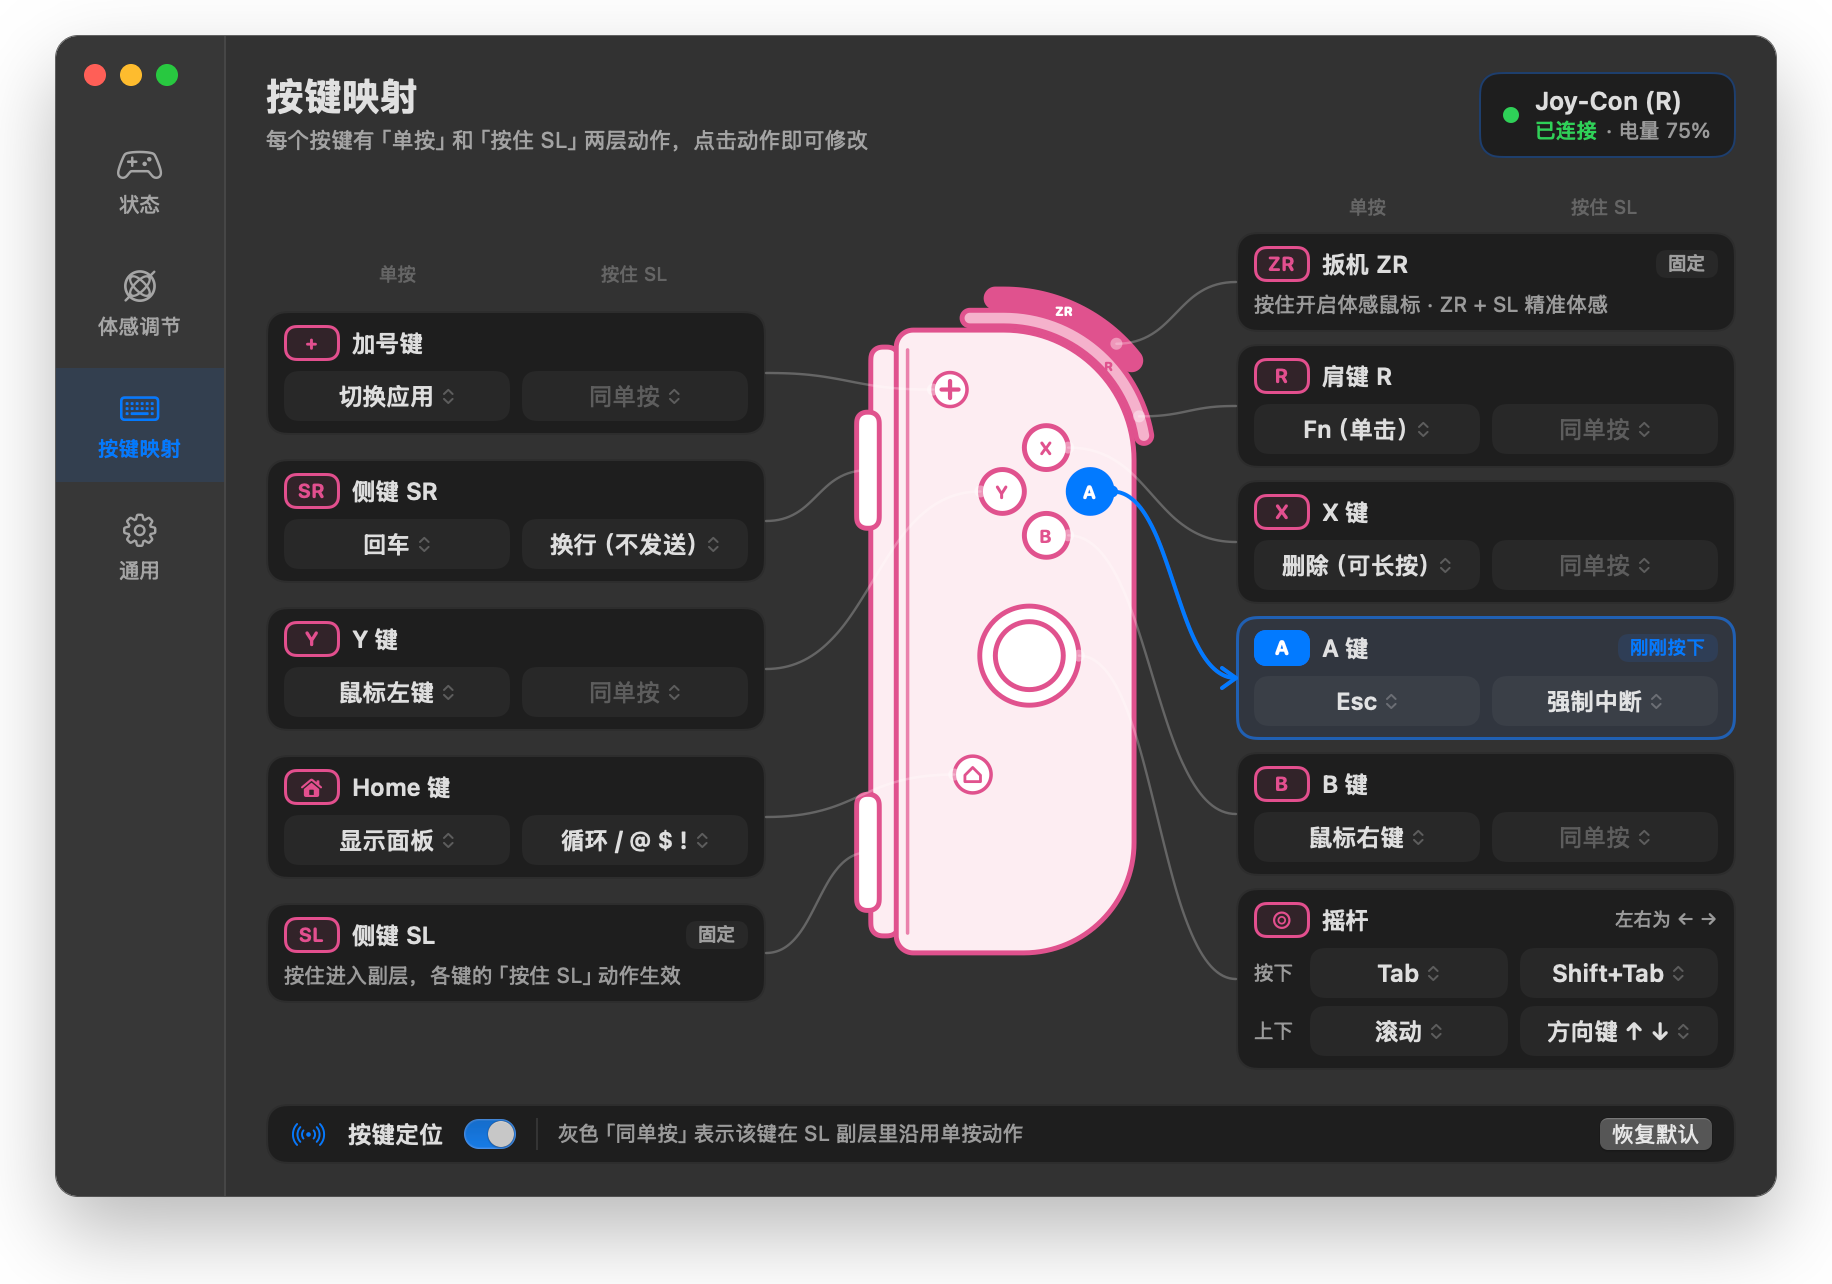
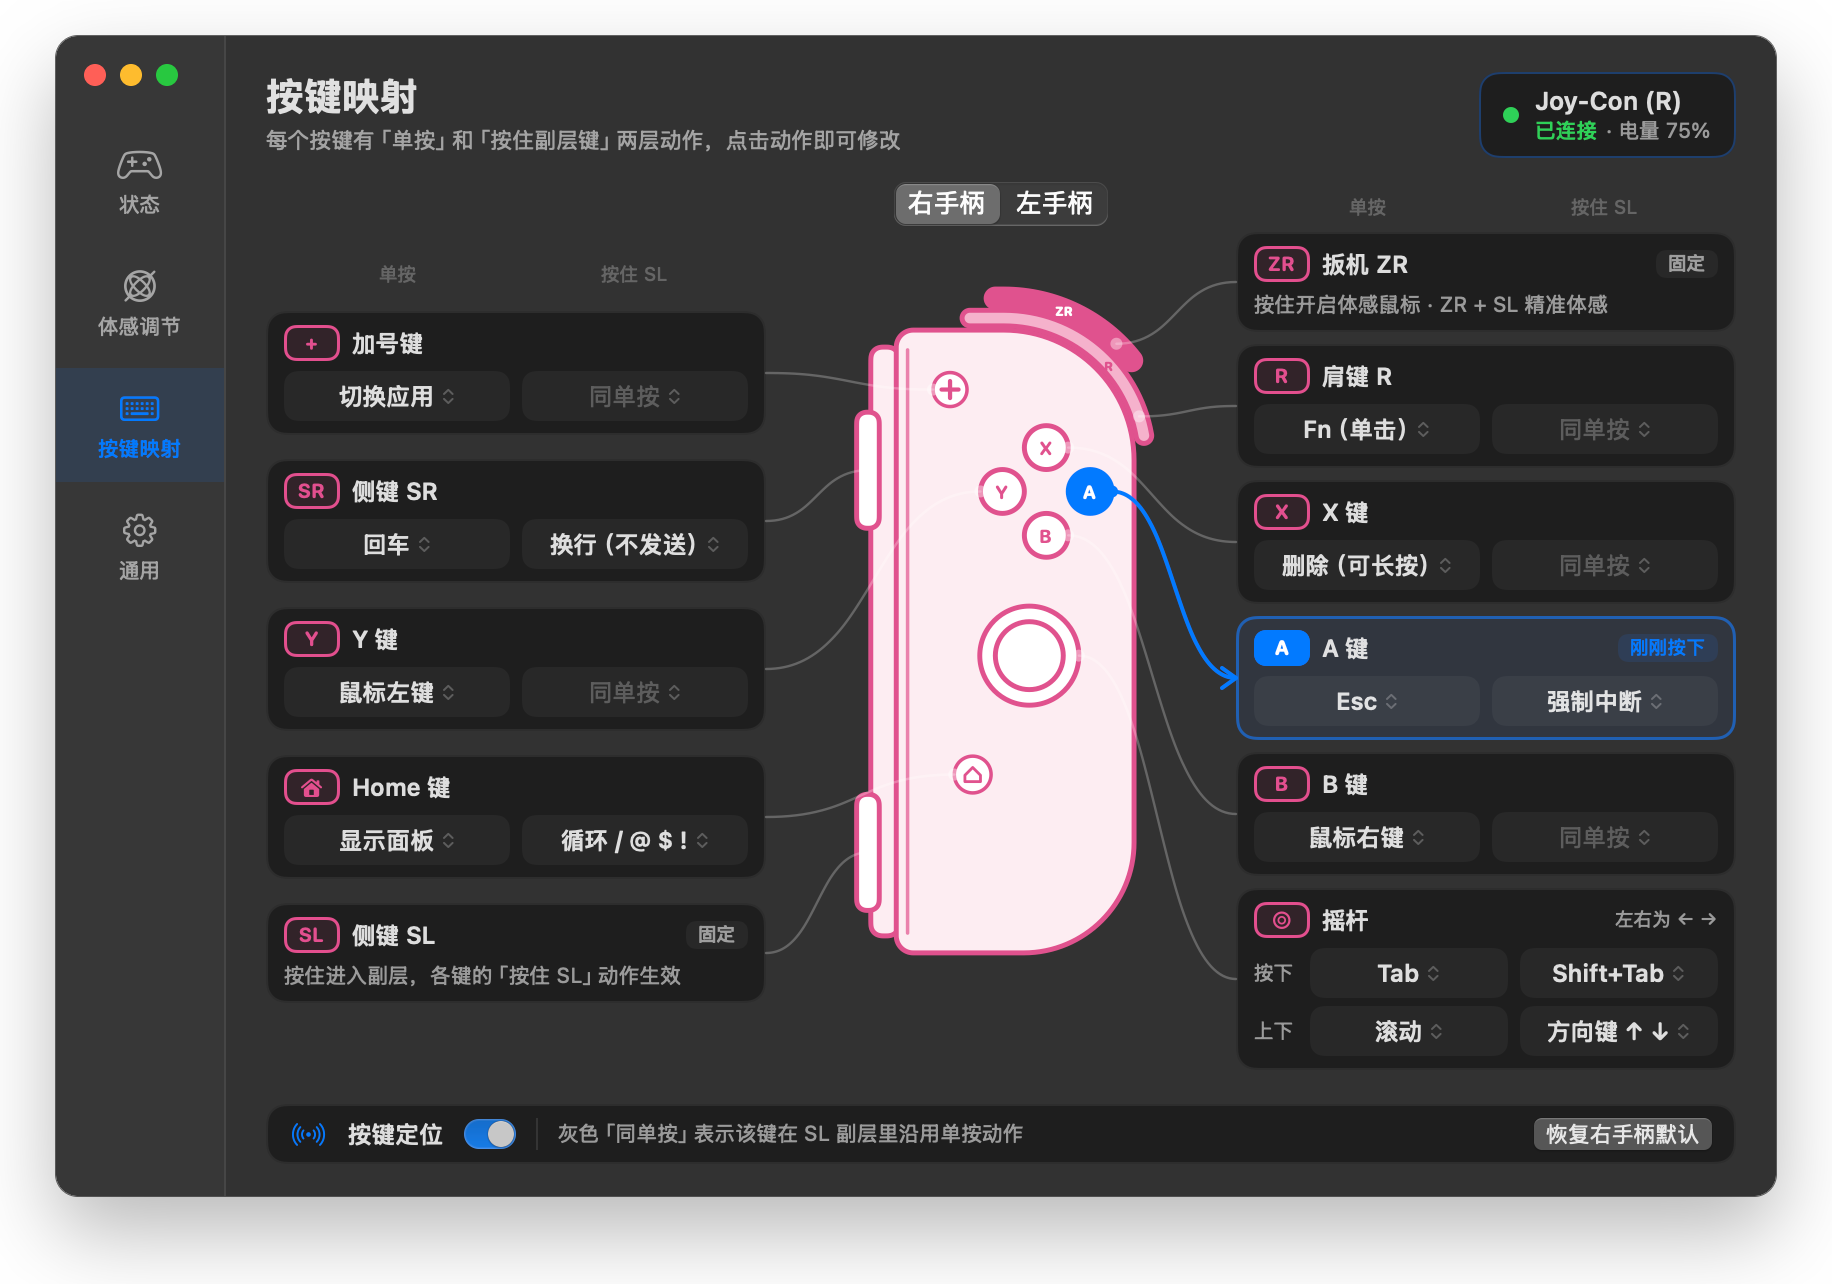
Document left Joy-Con support

Changed region(s): [[0.28, 0.0935, 0.5912, 0.1869], [0.8401, 0.8723, 0.9023, 0.9034]]

diff --git a/docs/manual/index.html b/docs/manual/index.html
@@ -89,7 +89,7 @@
           <span class="step-number">1</span>
           <div class="step-icon bluetooth-icon" aria-hidden="true">ᛒ</div>
           <h3>蓝牙连接</h3>
-          <p>打开 Mac「系统设置 → 蓝牙」，配对并连接 <b>Joy-Con (R)</b>。</p>
+          <p>打开 Mac「系统设置 → 蓝牙」，配对并连接 <b>Joy-Con (R)</b> 或 <b>Joy-Con (L)</b>。</p>
           <small>指示灯循环闪烁表示仍在寻找连接。</small>
         </li>
         <li class="setup-card reveal">
@@ -206,6 +206,22 @@
         <figcaption><span>DEFAULT MAP / 2026</span> 点击图片可以放大查看</figcaption>
         <button type="button" data-open-guide aria-label="放大完整按键图"></button>
       </figure>
+
+      <div class="left-hand reveal">
+        <h3>用左手 Joy-Con</h3>
+        <p>左手柄的按键按镜像位置对应右手柄，功能一样，体感方向自动换算。左手竖握时，滑轨下端的 <b>SR</b> 是副层键，相当于右手柄的 SL。</p>
+        <table>
+          <thead><tr><th>左手柄</th><th>相当于右手柄</th></tr></thead>
+          <tbody>
+            <tr><td>ZL / L</td><td>ZR / R</td></tr>
+            <tr><td>SR（下端）/ SL（上端）</td><td>SL / SR</td></tr>
+            <tr><td>← / → / ↑ / ↓</td><td>A / Y / X / B</td></tr>
+            <tr><td>− / 截图键</td><td>+ / Home</td></tr>
+            <tr><td>摇杆</td><td>摇杆</td></tr>
+          </tbody>
+        </table>
+        <p>两只同时连着时，谁按键就用谁：拿起另一只按任意键即可切换，摇杆被碰到或手柄被晃动都不会切换，按着扳机或其他键时也不会切换。左右手柄的按键映射各存一套，在设置窗口「按键映射」页顶部切换。「立即休眠」会让两只一起休眠。</p>
+      </div>
     </section>
 
     <section class="section workflow-section" id="workflow" aria-labelledby="workflow-title">
@@ -257,7 +273,7 @@
       <div class="console-mock reveal" aria-hidden="true">
         <div class="console-top">
           <span class="status-puck">◎</span>
-          <div><b>体感鼠标开启</b><small>Joy-Con (R)</small></div>
+          <div><b>体感鼠标开启</b><small>Joy-Con (R) / (L)</small></div>
           <em>75%</em>
           <span class="fake-toggle on"></span>
         </div>

diff --git a/docs/manual/styles.css b/docs/manual/styles.css
@@ -1057,6 +1057,45 @@ kbd {
   cursor: zoom-in;
 }
 
+.left-hand {
+  max-width: 920px;
+  margin: 46px auto 0;
+  padding: 24px 26px;
+  border: 1px solid var(--line);
+  background: rgba(255, 255, 255, 0.5);
+  box-shadow: var(--shadow);
+}
+
+.left-hand h3 {
+  margin: 0 0 8px;
+  font-family: var(--display);
+  font-size: 26px;
+}
+
+.left-hand p {
+  margin: 10px 0;
+  color: var(--muted);
+  line-height: 1.7;
+}
+
+.left-hand table {
+  width: 100%;
+  margin: 14px 0;
+  border-collapse: collapse;
+}
+
+.left-hand th,
+.left-hand td {
+  padding: 8px 10px;
+  border-bottom: 1px solid var(--line);
+  text-align: left;
+}
+
+.left-hand th {
+  font-size: 13px;
+  color: var(--muted);
+}
+
 .workflow-section {
   background: var(--paper);
 }

diff --git a/README.md b/README.md
@@ -84,6 +84,9 @@ The same mapping is listed in English under [Default button mapping](#default-bu
 - **Command symbols:** hold SL and tap Home repeatedly to type `/`, `@`, `$` and `!` in turn.
 - **Idle sleep:** after the controller sits idle for a while (30 minutes by default) it drops its
   Bluetooth link to save battery. Press any button to wake it; it reconnects without recalibrating.
+- **Left-handed use:** the left Joy-Con works just like the right one, with each button in the mirrored
+  position, for left-handed people or anyone who prefers their left hand. With both connected, whichever
+  you press a button on takes over, and each keeps its own button mapping. See [Left Joy-Con](#left-joy-con).
 - **Settings window:** click Open Settings… (打开设置…) in the menu bar panel. Four pages, Status (状态),
   Motion (体感调节), Button Mapping (按键映射) and General (通用), show the connection and calibration,
   tune the feel, and set each button's "press" and "hold SL" actions on a drawing of the controller.
@@ -104,7 +107,9 @@ Click the menu bar icon to see the connection and battery, toggle the remote, an
 
 ### Button Mapping
 
-Set each button's "press" and "hold SL" actions on a drawing of the controller. Pressing a button on the Joy-Con highlights its card and leader line.
+Set each button's "press" and "hold layer key" actions on a drawing of the controller. The Right controller | Left controller
+(右手柄 | 左手柄) switch at the top picks which one you are editing, starting with the one in use. Pressing a button on
+the Joy-Con highlights its card and leader line.
 
 <picture>
   <source media="(prefers-color-scheme: dark)" srcset="docs/assets/screenshots/settings-mapping-dark.png">
@@ -157,20 +162,53 @@ Launch at login, idle sleep, permission status, reset to defaults, and version i
 
 The ZR + SL precision combo takes priority over the SL Agent layer, so it never triggers layer actions by accident.
 
+## Left Joy-Con
+
+The left Joy-Con's buttons map to the right controller's buttons in the mirrored position and do the same
+things. Held upright in the left hand, **SR** at the bottom of the rail is the layer key, so "while holding SR"
+below is the same layer as "while holding SL" on the right controller. Motion direction is converted
+automatically; you do not need the invert switches.
+
+| Left Joy-Con | Right equivalent | Normal layer | While holding SR |
+| --- | --- | --- | --- |
+| ZL | ZR | Hold for motion mouse | ZL + SR for precision mode |
+| L | R | Single Fn press (system dictation) | Same as normal |
+| SL | SR | Return / Enter | Shift + Enter (newline without sending) |
+| ← | A | Esc | Control + C (force interrupt) |
+| ↓ | B | Right click | Same as normal |
+| ↑ | X | Delete; hold to repeat | Same as normal |
+| → | Y | Left click; hold to drag | Same as normal |
+| − | + | Command + Tab (switch apps) | Same as normal |
+| Capture | Home | Open the status panel | Tap repeatedly to cycle `/ → @ → $ → !` |
+| Stick press / up-down / left-right | Same as right | Same as right | Same as right |
+
+Each controller keeps its own button mapping; switch between them at the top of the Button Mapping page.
+
+<picture>
+  <source media="(prefers-color-scheme: dark)" srcset="docs/assets/screenshots/settings-mapping-left-dark.png">
+  <img src="docs/assets/screenshots/settings-mapping-left.png" alt="Button Mapping page with the left controller selected">
+</picture>
+
+**With both connected:** whichever you press a button on takes over. Pick up the other one and press any
+button to switch; the idle one is shown as standby (待机). Bumping a stick or moving a controller never
+switches, and neither does pressing the other controller while you hold the trigger or any other button.
+If the controller in use disconnects or goes to sleep, the other one takes over. Sleep now (立即休眠) puts
+every connected controller to sleep.
+
 ## Requirements
 
 - macOS 14 or later. The downloadable DMG supports Apple silicon only; on Intel Macs, build from source;
-- An original Nintendo Switch Joy-Con (R);
+- An original Nintendo Switch Joy-Con (R) or Joy-Con (L), or both;
 - A Bluetooth connection;
 - The Accessibility permission, plus Input Monitoring if macOS blocks HID input;
 - A microphone if you want voice input.
 
 ## Getting started
 
-1. Pair `Joy-Con (R)` in macOS System Settings → Bluetooth;
+1. Pair `Joy-Con (R)` or `Joy-Con (L)` in macOS System Settings → Bluetooth;
 2. Grant the app the Accessibility permission when prompted;
 3. Once connected, leave the Joy-Con still for about a second while it calibrates its zero point;
-4. Hold ZR and gently turn your wrist to move the cursor.
+4. Hold ZR (ZL on the left controller) and gently turn your wrist to move the cursor.
 
 If nothing happens after granting permissions, click Reconnect (重新连接) in the error message, or turn the
 remote toggle in the panel's top-right corner off and on again. Opening the panel also retries any device

diff --git a/README.zh-CN.md b/README.zh-CN.md
@@ -74,6 +74,8 @@ xattr -dr com.apple.quarantine "/Applications/Joy-Con Vibe Remote.app"
 - **命令符号：**按住 SL 连点 Home，依次输入 `/`、`@`、`$`、`!`。
 - **闲置休眠：**手柄闲置一段时间（默认 30 分钟）后自动断开蓝牙省电，按任意键即可唤醒并重新连上，
   无需再次校准。
+- **左手也能用：**左手 Joy-Con 和右手 Joy-Con 功能一样，按镜像位置对应，适合左撇子或习惯左手的人；
+  两只同时连着时，谁按键就用谁，按键映射左右各存一套。详见[左手 Joy-Con](#左手-joy-con)。
 - **设置窗口：**菜单栏面板中点「打开设置…」，在「状态」「体感调节」「按键映射」「通用」四页里查看连接与校准、调节手感，
   并对着手柄示意图分别设置每个按键的“单按”和“按住 SL 后”动作；按下手柄上的键，对应设置会自动高亮。
 
@@ -92,7 +94,8 @@ xattr -dr com.apple.quarantine "/Applications/Joy-Con Vibe Remote.app"
 
 ### 按键映射
 
-对着手柄示意图设置每个按键的「单按」和「按住 SL」动作。按下手柄上的键，对应的卡片和引导线会高亮。
+对着手柄示意图设置每个按键的「单按」和「按住副层键」动作。顶部的「右手柄 | 左手柄」切换要设置哪一只，
+打开时自动选中正在用的那只。按下手柄上的键，对应的卡片和引导线会高亮。
 
 <picture>
   <source media="(prefers-color-scheme: dark)" srcset="docs/assets/screenshots/settings-mapping-dark.png">
@@ -145,20 +148,49 @@ xattr -dr com.apple.quarantine "/Applications/Joy-Con Vibe Remote.app"
 
 ZR + SL 的精准体感组合优先于 SL Agent 副层，不会误触发副层按键动作。
 
+## 左手 Joy-Con
+
+左手 Joy-Con 的按键按镜像位置对应右手柄，功能一样。左手竖握时，滑轨下端的 **SR** 是副层键，
+所以下表的"按住 SR 后"相当于右手柄的"按住 SL 后"。体感方向会自动换算，不需要打开反向开关。
+
+| 左手 Joy-Con | 对应右手柄 | 普通层 | 按住 SR 后 |
+| --- | --- | --- | --- |
+| ZL | ZR | 按住开启体感鼠标 | ZL + SR 为精准体感 |
+| L | R | 单次 Fn（系统语音输入） | 同普通层 |
+| SL | SR | Return / Enter | Shift + Enter（换行但不发送） |
+| ← | A | Esc | Control + C（强制中断） |
+| ↓ | B | 鼠标右键 | 同普通层 |
+| ↑ | X | 删除；按住连续删除 | 同普通层 |
+| → | Y | 鼠标左键；按住可拖动 | 同普通层 |
+| − | + | Command + Tab（切换应用） | 同普通层 |
+| 截图键 | Home | 打开状态面板 | 连点轮换 `/ → @ → $ → !` |
+| 摇杆按下 / 上下 / 左右 | 同右手柄 | 同右手柄 | 同右手柄 |
+
+左右手柄的按键映射各存一套，在「按键映射」页顶部切换后分别设置。
+
+<picture>
+  <source media="(prefers-color-scheme: dark)" srcset="docs/assets/screenshots/settings-mapping-left-dark.png">
+  <img src="docs/assets/screenshots/settings-mapping-left.png" alt="按键映射页选中左手柄：左手柄示意图和左手柄的按键卡片">
+</picture>
+
+**两只同时连着时：**谁按键就用谁。拿起另一只按任意键就切换过去，另一只显示为「待机」；
+摇杆被碰到或手柄被晃动都不会切换，正按着扳机移动光标或按着其他键时也不会切换。
+正在用的那只断开或休眠后，会自动改用另一只。「立即休眠」会让所有已连接的手柄一起休眠。
+
 ## 系统要求
 
 - macOS 14 或更高版本；下载的安装包仅支持 Apple 芯片的 Mac，Intel 机型请从源码构建；
-- 原版 Nintendo Switch Joy-Con (R)；
+- 原版 Nintendo Switch Joy-Con (R) 或 Joy-Con (L)，也可以两只都连；
 - 蓝牙连接；
 - “辅助功能”权限；若系统阻止 HID 输入，再授予“输入监控”权限；
 - 使用语音输入时，需要额外准备麦克风。
 
 ## 首次使用
 
-1. 在 macOS「系统设置 → 蓝牙」中配对 `Joy-Con (R)`；
+1. 在 macOS「系统设置 → 蓝牙」中配对 `Joy-Con (R)` 或 `Joy-Con (L)`；
 2. 按照提示授予 App“辅助功能”权限；
 3. 连接成功后把 Joy-Con 静置约一秒，等待零点校准完成；
-4. 按住 ZR，轻轻转动手腕开始控制光标。
+4. 按住 ZR（左手柄为 ZL），轻轻转动手腕开始控制光标。
 
 授权后仍无响应时，可点击错误提示中的「重新连接」，或关闭再开启控制台右上角的遥控开关。
 打开控制台时也会重试此前打开失败的设备连接。如果 macOS 提示必须退出并重新打开，
